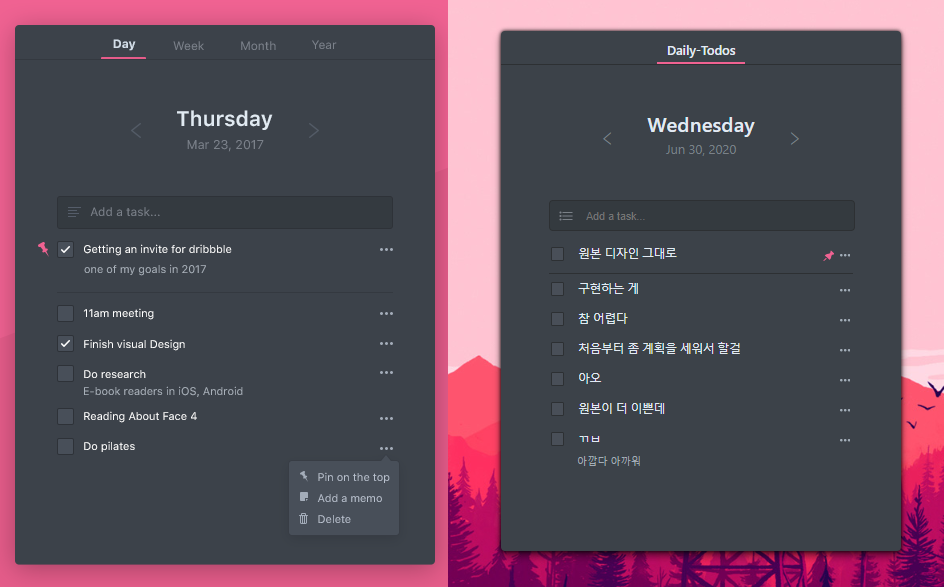
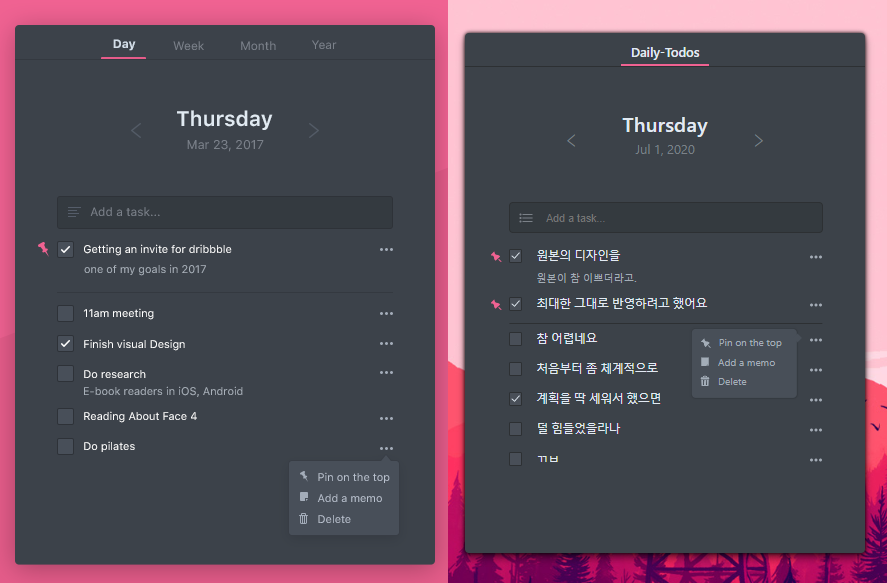
07-01 posted

diff --git a/_posts/2020-07-01-React-preactice-todo.md b/_posts/2020-07-01-React-preactice-todo.md
@@ -1,0 +1,159 @@
+---
+layout: post
+title: Daily todos with React
+tags:
+  - TIL
+  - react
+---
+### Daily-Todos
+최근에 [생활코딩](https://opentutorials.org/module/4058)으로 React를 공부하고,  
+대략적으로 머리에 날라다니는 개념을 붙잡기 위해  
+React를 이용해서 뭐라도 만들어봐야겠다는 생각이 들었다.  
+
+웹을 다루는 사람이라면 TODO LIST를 기본적으로 만들 줄 알아야 한다는 말을  
+예전에 우연히 본 적이 있었기에, 무엇을 만들지는 크게 고민하지 않았다.  
+
+내 성격상 똑같은 걸 두 번 하기 싫어할 게 뻔하기 때문에  
+이왕 TODO LIST를 만들기로 결심한 거,  
+내가 할 수 있는 한 최대한 고퀄리티의 TODO LIST를 만들어보자는 생각이 들었다.  
+
+예전에 Dribbble에서 [이지혜](http://jihyeleee.com/)님이 디자인하신 [TODO LIST](https://dribbble.com/shots/3384144-Hello-Dribbble)가  
+엄청 괜찮은 것 같아서 좋아요를 눌러놨던 적이 있다.  
+TODO LIST를 만들어야겠다는 생각을 하자마자 기억이 번뜩 떠올랐고,  
+얼른 다시 찾아가봤는데 여전히 맘에 들었다.  
+
+만약 그 디자인대로 만들수만 있다면,  
+이만큼 이쁘게 만든 TODO LIST를 별로 본 적이 없었기 때문에  
+참 괜찮은 결과물을 만들 수 있을 거라는 생각이 들었다.  
+
+일단 디자인을 사용하기 전에 이지혜님께 허락을 구하는 메일을 보냈는데,  
+감사하게도 너무나 흔쾌히 허락을 해주셔서 작업을 신속하게 시작할 수 있었다.  
+
+![img1](../img/jihyeleee todolist.png)
+##### 좌측이 원본, 우측이 결과물.  
+
+이름을 Daily-Todos로 정한 이유는..  
+원본의 디자인 상단에 보면 Day, Week, Month, Year로 기능이 나눠져 있다.  
+근데 디자인 구현은 Day만 되어있어서  
+이 컨셉에 맞게 Week, Month, Year를 다 디자인하고 구현하기에는  
+시간이 너무 오래 걸리지 않을까 하는 생각에 그냥 Daily만 하기로 해서.  
+그래서 이름이 Daily-Todos가 되었다.  
+
+사진을 보며 먼저 생각나는 것부터 간단하게 언급을 해보겠다.  
+우선, 아쉽게도 원본과 똑같은 모양의 아이콘을 구할 수가 없었다.  
+차선책으로 비슷한 아이콘들을 구해서 집어넣었는데,  
+뭐 얼핏 보면 그렇게 크게 차이나진 않는 듯..ㅎㅎ;  
+
+나름 UX도 신경쓰려고 노력했는데, 능력의 한계로 인해 타협을 많이 했다.  
+예를 들면 스크롤같은 경우.  
+todo 갯수가 너무 많아져서 특정 갯수 이상으로 넘어가버리면 스크롤이 되도록 했다.  
+근데, 스크롤은 사실 옆에 스크롤 바가 있어야 스크롤이 되는지 알 텐데  
+스크롤이 표시되면 비율이 깨져버린다. 그리고, 무엇보다 너무 안이뻐진다.  
+그래서 스크롤을 아예 삭제해버렸다..  
+
+툴팁 메뉴도 꽤나 골칫거리였다.  
+원본은 메뉴 버튼을 누르면 아래쪽으로 툴팁 메뉴가 튀어나오게 디자인되었는데,  
+구현을 하고 보니 아래쪽의 다른 메뉴 버튼을 가려버리는 불상사가 발생했다.  
+
+아래쪽으로 툴팁을 내리는 게 미관적으로 가장 좋았지만  
+일단은 눈물을 머금고 왼쪽으로 툴팁을 빼버리기로 했다.  
+(근데, 사실 마음에 안들어서 언젠가는 아래쪽으로 내려버릴지도 모른다.)  
+
+최대한 사용자에게 친화적이도록 UI를 구성하고자 했지만  
+디자인과 컨셉을 유지하려다보니 타협해야 할 부분들이 생각보다 많더라..  
+
+### 첫 React 프로젝트
+React에 관해 이야기를 좀 하자면, React를 처음 사용해봐서 그런지  
+사용법도 정확히 모르겠고, 내가 지금 맞게 짜고 있는 건지 자꾸 의심이 되기도 하고.  
+그래도 기존에 Vanilla JS에서 모듈을 사용했던 경험을 떠올려  
+나름 빠르게 적응한 것 같기도 하다.  
+
+아직은 React 초보이다 보니, component나 state라는 새로운 개념을 접하면서  
+그 개념에 갇혀버린 느낌이 든다. 생각이 제한되고 머리가 복잡해지는 느낌.  
+조금 익숙해지면 이것저것 과감하게 좀 시도해보면서   
+자연스럽게 사용할 수 있게 되어야 할 텐데.  
+
+사실, 이런 새로운 프레임워크를 접하다보면 항상 드는 생각이 있다.  
+기존에 이 프레임워크를 사용하던 사람들이 찾아낸 합리적인 코딩 방식이 있을 건데,  
+지금 내가 하는 코딩이 그 방식에 맞는건지 의문이 들 때가 많다.  
+
+지금 이게 성능적으로 괜찮은 코딩인지. 프로젝트의 스케일이 커져도 문제가 없는지.  
+지금은 결과물의 스케일이 작다보니 문제가 없지만  
+스케일이 커져도 괜찮을지. 잘 버텨줄 지 걱정이 자꾸 된다.  
+
+이래서 회사에 들어가면 사수를 붙혀주나보다.  
+이런 고민이 들 때마다 좀 물어보라고.  
+
+### 기능적으로 봤을 땐
+기능적인 면에서는, TODO LIST가 갖춰야 할 엔간한 기능은 다 구현했다고 생각한다.  
+그것도 버그 없이.  
+
+떠오르는 것만 몇 개 얘기해보자.  
+우선, id부터 얘기하자면.  
+id는 CRUD의 Delete를 구현하는 데에 필요했다.  
+이를 위해서는 무조건 unique한 id가 필요했는데, 그 이유는 동일한 id를 가지는  
+두 개의 항목이 있을 경우, 의도치 않게 둘을 동시에 삭제하는 경우가 생겨버린다.  
+
+이를 방지하기 위해 처음에 생각했던 것은  
+배열의 마지막 요소가 가진 id에 1을 더해주는 것.  
+그러면 무조건 마지막으로 들어온 요소에 1이 더해지기 때문에   
+절대로 중복될 일이 없을거라 생각했다.  
+```javascript
+const newID = array[array.length - 1].id + 1;
+```
+실제로도 잘 적용됐고, 테스트 동안에도 문제없이 동작했다.  
+하지만 pin 고정 기능을 넣는 순간, 엉망이 되어버렸다.  
+pin으로 고정하는 기능을 넣으면 배열의 순서가 바뀌어버리기 때문에  
+마지막 요소의 id가 꼭 제일 크다는 보장이 없어져버린다.  
+그래서 중복되는 id가 발생했다.  
+
+이에 대한 해결책으로 발견한 두 번째 방법은 바로  
+랜덤 함수를 이용하는 방법.  
+```javascript
+const newID = Math.random().toString(36).substr(2, 9);
+```
+랜덤한 수를 만들어내서, 36진수 숫자 9자리로 표현한다.  
+아마 내가 50살이 되기 전까지는 중복되는 수를 볼 일이 없을거라 생각했는데  
+테스트 도중에 딱 한 번 중복이 되긴 하더라.  
+소름이 돋았다 아주 그냥  
+
+![img2](../img/todolist2.png)
+##### 테스트 단계라 디자인이 좀 다르다.
+
+pin기능은 마지막에 버그를 발견해서 조금 머리가 아팠다.  
+사실 뭐 그렇게 복잡한 건 아니었지만, 그냥 배포하기 직전에 발견되니까  
+약간 더. 토끼 똥만큼 더 짜증나긴 했다.  
+
+배열로 저장되어있는 todo 데이터들 중에서 pin되어있는 애들을 따로 뽑는다.  
+그리고 걔네들을 또 날짜별로 가지런히 분류되게 하기 위해,  
+sort 함수를 써서 날짜 순서대로 정렬한다.  
+그런 다음 날짜 별로 가장 마지막에 있는 요소에다가  
+밑줄이 그어지도록 하면 된다.  
+
+그렇게 하면 pin 고정되어있는 애들이랑 나머지 애들을 구분하는 검은 선을 그을 수 있다.  
+
+사실 아직 해결되지 않은 에러가 하나 있다.  
+기능적으로는 전혀 문제가 없지만, 자꾸 콘솔 창에 떠서 신경을 쓰이게 하는 에러.  
+체크박스를 클릭해서 체크를 하면, uncontrollable한 객체를 control했다던가 뭐라던가  
+
+기능 상으로 문제가 없고, deploy를 하고 나니 에러가 뜨지 않기에  
+일단은 넘어가고, 나중에 더 지식이 생기면 그 때 해결하는걸로...  
+아무리 검색을 해도 도저히 모르겠더라..  
+
+### 뭐 결국에는
+부족한 코딩 실력을 가지고 어떻게든 구현을 해냈다.  
+구현을 끝내고, 테스트를 마치고 보니 마치 하나의 훈장처럼  
+눈부시게 하얀 흰머리가..  
+
+그래도 뭐 만들고 싶었던 기능들 다 만들었고  
+애니메이션도 넣을 수 있을 만한 곳에는 웬만큼 넣은 것 같고  
+원본 디자인에도 최대한 가깝게 만든 것 같아서  
+나름 만족스러운 결과물이다.  
+
+디자인도 디자인이지만, 최대한 기능을 버그 없이 구현하고자 노력했다.  
+뭐 하나라도 버그가 발견되면 도저히 가만히 두고 넘어갈 수가 없는 성격이라  
+버그가 발견되면 무조건 고치려고 했던 것 같다.  
+
+배경은, 사실 뭘 넣어야될지 몰라서  
+그냥 내가 좋아하는 게임 일러스트를 하나 쑤셔넣었다. 색깔 맞는걸로.  
+
